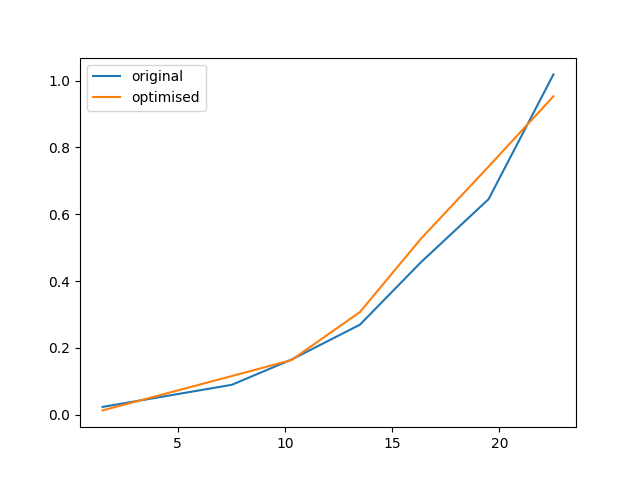
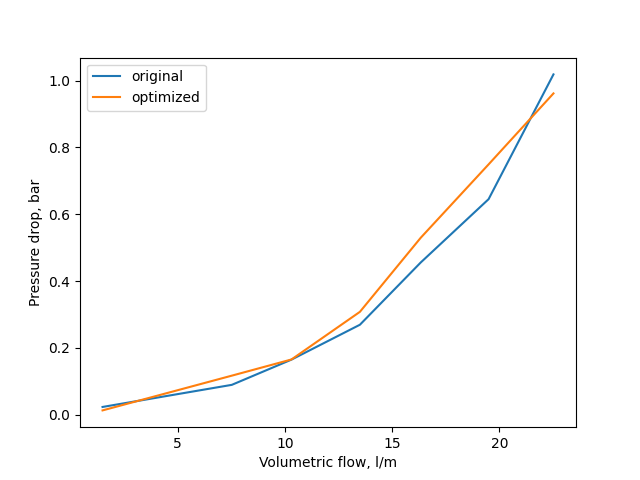
Model fixed

diff --git a/optimization.py b/optimization.py
@@ -92,7 +92,7 @@ def optimized_fun(coefs):
 # print(result)
 #
 # theta_res = result.x
-theta_res = [ 4.417e-03, 1.493e-03, 9.165e-05, 1.000e-01]
+theta_res = [4.417e-03, 1.493e-03, 9.165e-05, 1.000e-01]
 
 liquid = (1050.440, 3499, 1.633e-5, 2.675e-2)
 
@@ -101,10 +101,10 @@ plt.xlabel('Volumetric flow, l/m')
 plt.ylabel('Thermal resistance, K/W')
 plt.plot(x, y, label='original')
 y_res = resistance(theta_res, x)
-plt.plot(x, y_res, label='optimised')
+plt.plot(x, y_res, label='optimized')
 pms_data = (980, 1632, 1e-5, 0.167)
 y_pms = resistance(theta_res, x, pms_data)
-plt.plot(x, y_pms, label='pms')
+plt.plot(x, y_pms, label='ПМС-10')
 plt.legend()
 
 plt.figure(2)
@@ -112,9 +112,9 @@ plt.xlabel('Volumetric flow, l/m')
 plt.ylabel('Pressure drop, bar')
 plt.plot(x_pressure, y_pressure, label='original')
 y_res_pressure = pressure_drop(theta_res, x_pressure)
-plt.plot(x_pressure, y_res_pressure, label='optimised')
+plt.plot(x_pressure, y_res_pressure, label='optimized')
 y_pms_pressure = pressure_drop(theta_res, x_pressure, pms_data)
-plt.plot(x_pressure, y_pms_pressure, label='pms')
+plt.plot(x_pressure, y_pms_pressure, label='ПМС-10')
 plt.legend()
 
 plt.show()
